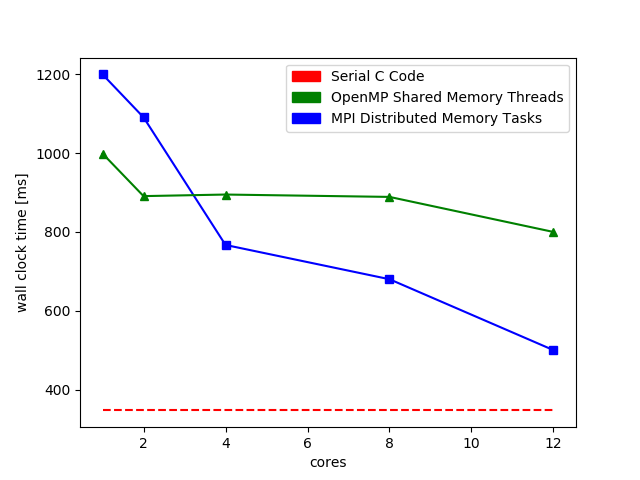
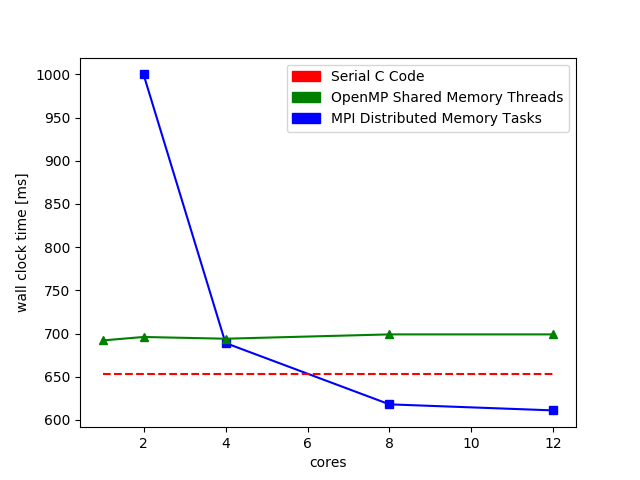
:heavy_check_mark: slurm adapted to plot for single threaded openmp

diff --git a/python/parallel_plot.py b/python/parallel_plot.py
@@ -52,10 +52,8 @@ for filename in matrix_files:
 		millisecs_3 = wall_time_3.split()[0]
 		wall_time_4 = lines[7]
 		millisecs_4 = wall_time_4.split()[0]
-		wall_time_5 = lines[9]
-		millisecs_5 = wall_time_5.split()[0]
-		x_values = [1, 2, 4, 8, 12]
-		y_values = [int(millisecs_1), int(millisecs_2), int(millisecs_3), int(millisecs_4), int(millisecs_5)]
+		x_values = [2, 4, 8, 12]
+		y_values = [int(millisecs_1), int(millisecs_2), int(millisecs_3), int(millisecs_4)]
 		runtimes_dict['mpi'] = (x_values, y_values)
 		print(runtimes_dict)
 
